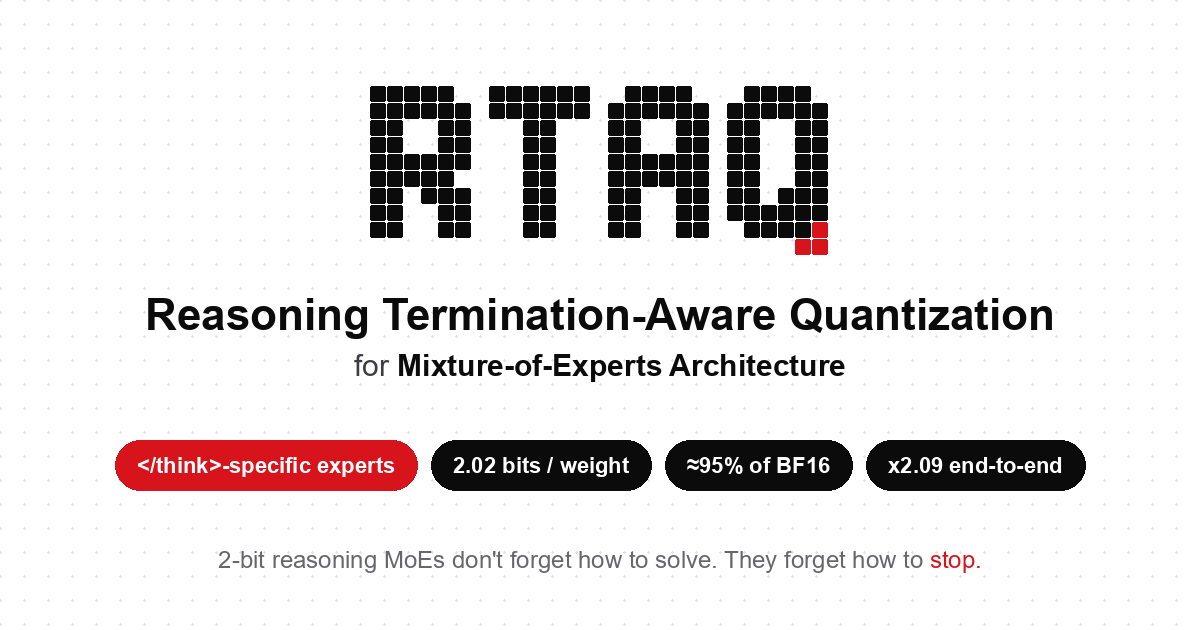
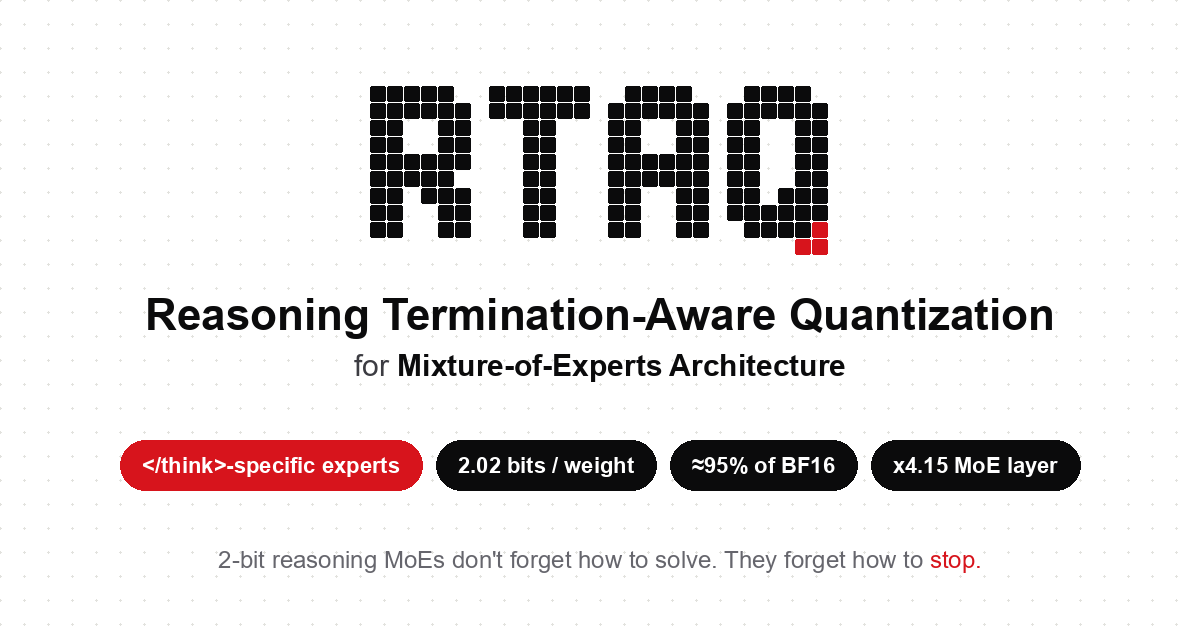
Hero: show the MoE layer speed-up (x4.15) instead of end-to-end
The social preview image follows the hero stats.

Changed region(s): [[0.0925, 0.6937, 0.925, 0.7841]]

diff --git a/index.html b/index.html
@@ -140,8 +140,8 @@
             <div class="stat-label">of BF16 accuracy retained <br>at ~2 bits</div>
           </div>
           <div class="stat accent">
-            <div class="stat-num">×<span data-count="2.09" data-decimals="2">2.09</span></div>
-            <div class="stat-label">end-to-end speed-up</div>
+            <div class="stat-num">×<span data-count="4.15" data-decimals="2">4.15</span></div>
+            <div class="stat-label">MoE layer speed-up</div>
           </div>
         </div>
       </div>
